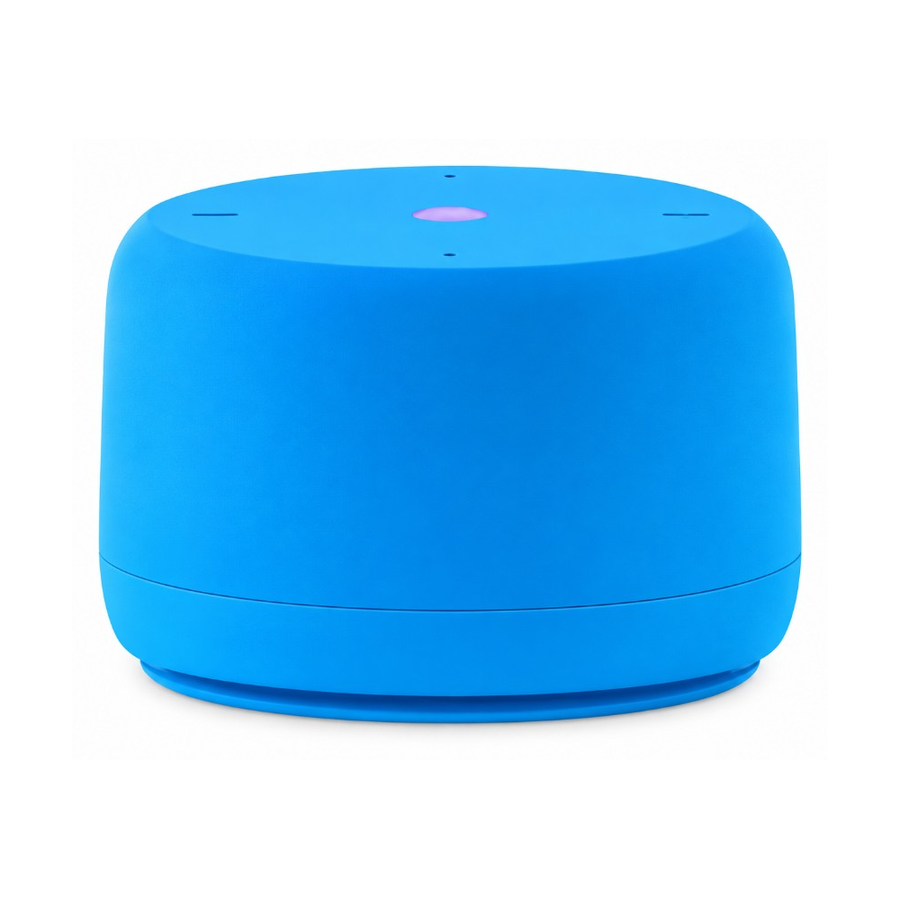
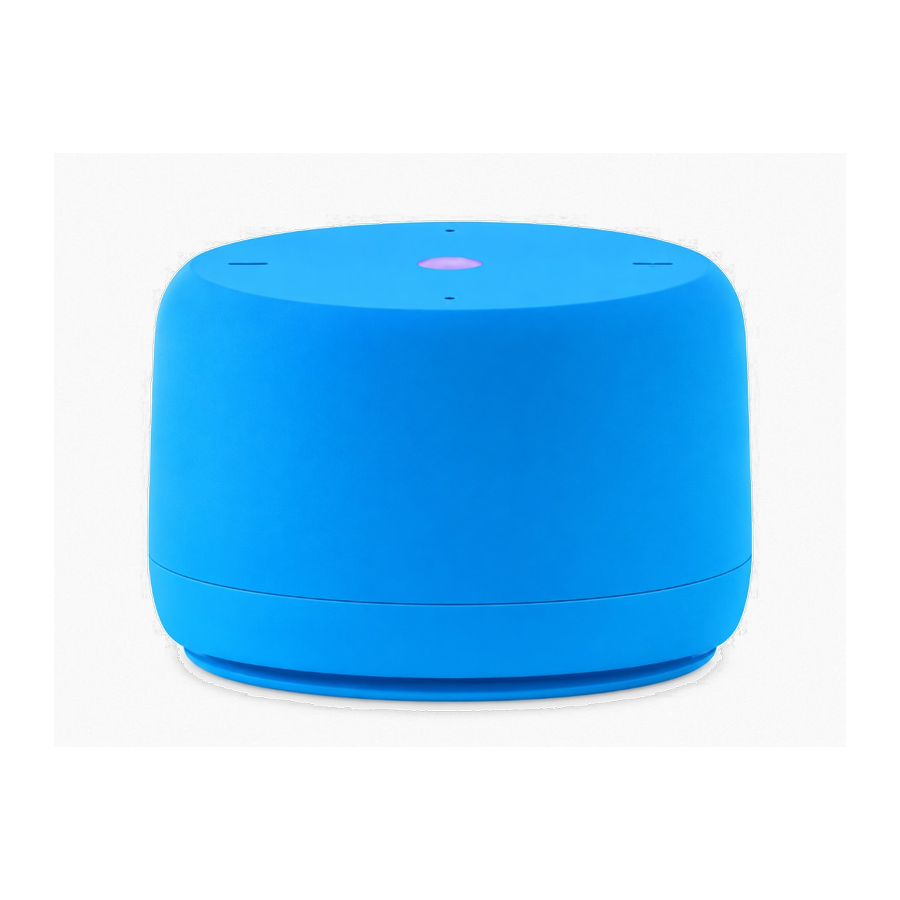
Make hero ads slide smoothly as transparent stickers.
Faster carousel with continuous slide transitions and white backgrounds removed from promo product photos.

Changed region(s): [[0.0933, 0.1556, 0.9022, 0.8089]]

diff --git a/src/components/HeroProductCarousel.tsx b/src/components/HeroProductCarousel.tsx
@@ -5,62 +5,89 @@ import { useEffect, useState } from "react";
 
 const SLIDES = [
   {
-    src: "/products/YSL-001-pink.png",
+    src: "/products/hero-layt-pink.png",
     label: "Yandex Layt",
   },
   {
-    src: "/products/YSM-001-yellow.png",
+    src: "/products/hero-midi-yellow.png",
     label: "Yandex Stansiya Midi",
   },
   {
-    src: "/products/YSL-001-green.png",
+    src: "/products/hero-layt-green.png",
     label: "Yandex Layt yashil",
   },
   {
-    src: "/products/YSL-001-teal.png",
-    label: "Yandex Layt moviy",
+    src: "/products/hero-midi-pink.png",
+    label: "Yandex Stansiya Midi pushti",
   },
 ] as const;
 
+const INTERVAL_MS = 1400;
+const SLIDE_MS = 550;
+
 export function HeroProductCarousel() {
   const [index, setIndex] = useState(0);
+  const [animating, setAnimating] = useState(false);
 
   useEffect(() => {
     const id = window.setInterval(() => {
+      setAnimating(true);
       setIndex((i) => (i + 1) % SLIDES.length);
-    }, 2000);
+    }, INTERVAL_MS);
     return () => window.clearInterval(id);
   }, []);
 
+  useEffect(() => {
+    if (!animating) return;
+    const t = window.setTimeout(() => setAnimating(false), SLIDE_MS);
+    return () => window.clearTimeout(t);
+  }, [index, animating]);
+
+  function goTo(i: number) {
+    if (i === index) return;
+    setAnimating(true);
+    setIndex(i);
+  }
+
   return (
     <div className="relative w-full">
-      <div className="relative aspect-[4/3] w-full overflow-hidden sm:aspect-[16/10] md:aspect-[2/1]">
-        {SLIDES.map((slide, i) => (
-          <div
-            key={slide.src}
-            className={`absolute inset-0 transition-opacity duration-500 ${
-              i === index ? "opacity-100" : "opacity-0"
-            }`}
-          >
-            <Image
-              src={slide.src}
-              alt={slide.label}
-              fill
-              className="object-contain p-2 sm:p-4"
-              sizes="(max-width:768px) 100vw, 960px"
-              priority={i === 0}
-            />
-          </div>
-        ))}
+      <div className="relative aspect-[5/4] w-full overflow-hidden sm:aspect-[16/10] md:aspect-[2.1/1]">
+        <div
+          className="flex h-full"
+          style={{
+            width: `${SLIDES.length * 100}%`,
+            transform: `translateX(-${(index * 100) / SLIDES.length}%)`,
+            transition: animating
+              ? `transform ${SLIDE_MS}ms cubic-bezier(0.22, 1, 0.36, 1)`
+              : "none",
+          }}
+        >
+          {SLIDES.map((slide, i) => (
+            <div
+              key={slide.src}
+              className="relative h-full shrink-0"
+              style={{ width: `${100 / SLIDES.length}%` }}
+            >
+              <Image
+                src={slide.src}
+                alt={slide.label}
+                fill
+                className="object-contain drop-shadow-[0_18px_28px_rgba(15,23,42,0.28)]"
+                sizes="(max-width:768px) 100vw, 960px"
+                priority={i === 0}
+              />
+            </div>
+          ))}
+        </div>
       </div>
 
-      <div className="mt-2 flex justify-center gap-1.5 pb-1">
+      <div className="mt-1.5 flex justify-center gap-1.5 pb-1">
         {SLIDES.map((slide, i) => (
           <button
             key={slide.src}
             type="button"
             aria-label={slide.label}
-            onClick={() => setIndex(i)}
+            onClick={() => goTo(i)}
             className={`h-1.5 rounded-full transition-all ${
               i === index ? "w-5 bg-white" : "w-1.5 bg-white/45"
             }`}
